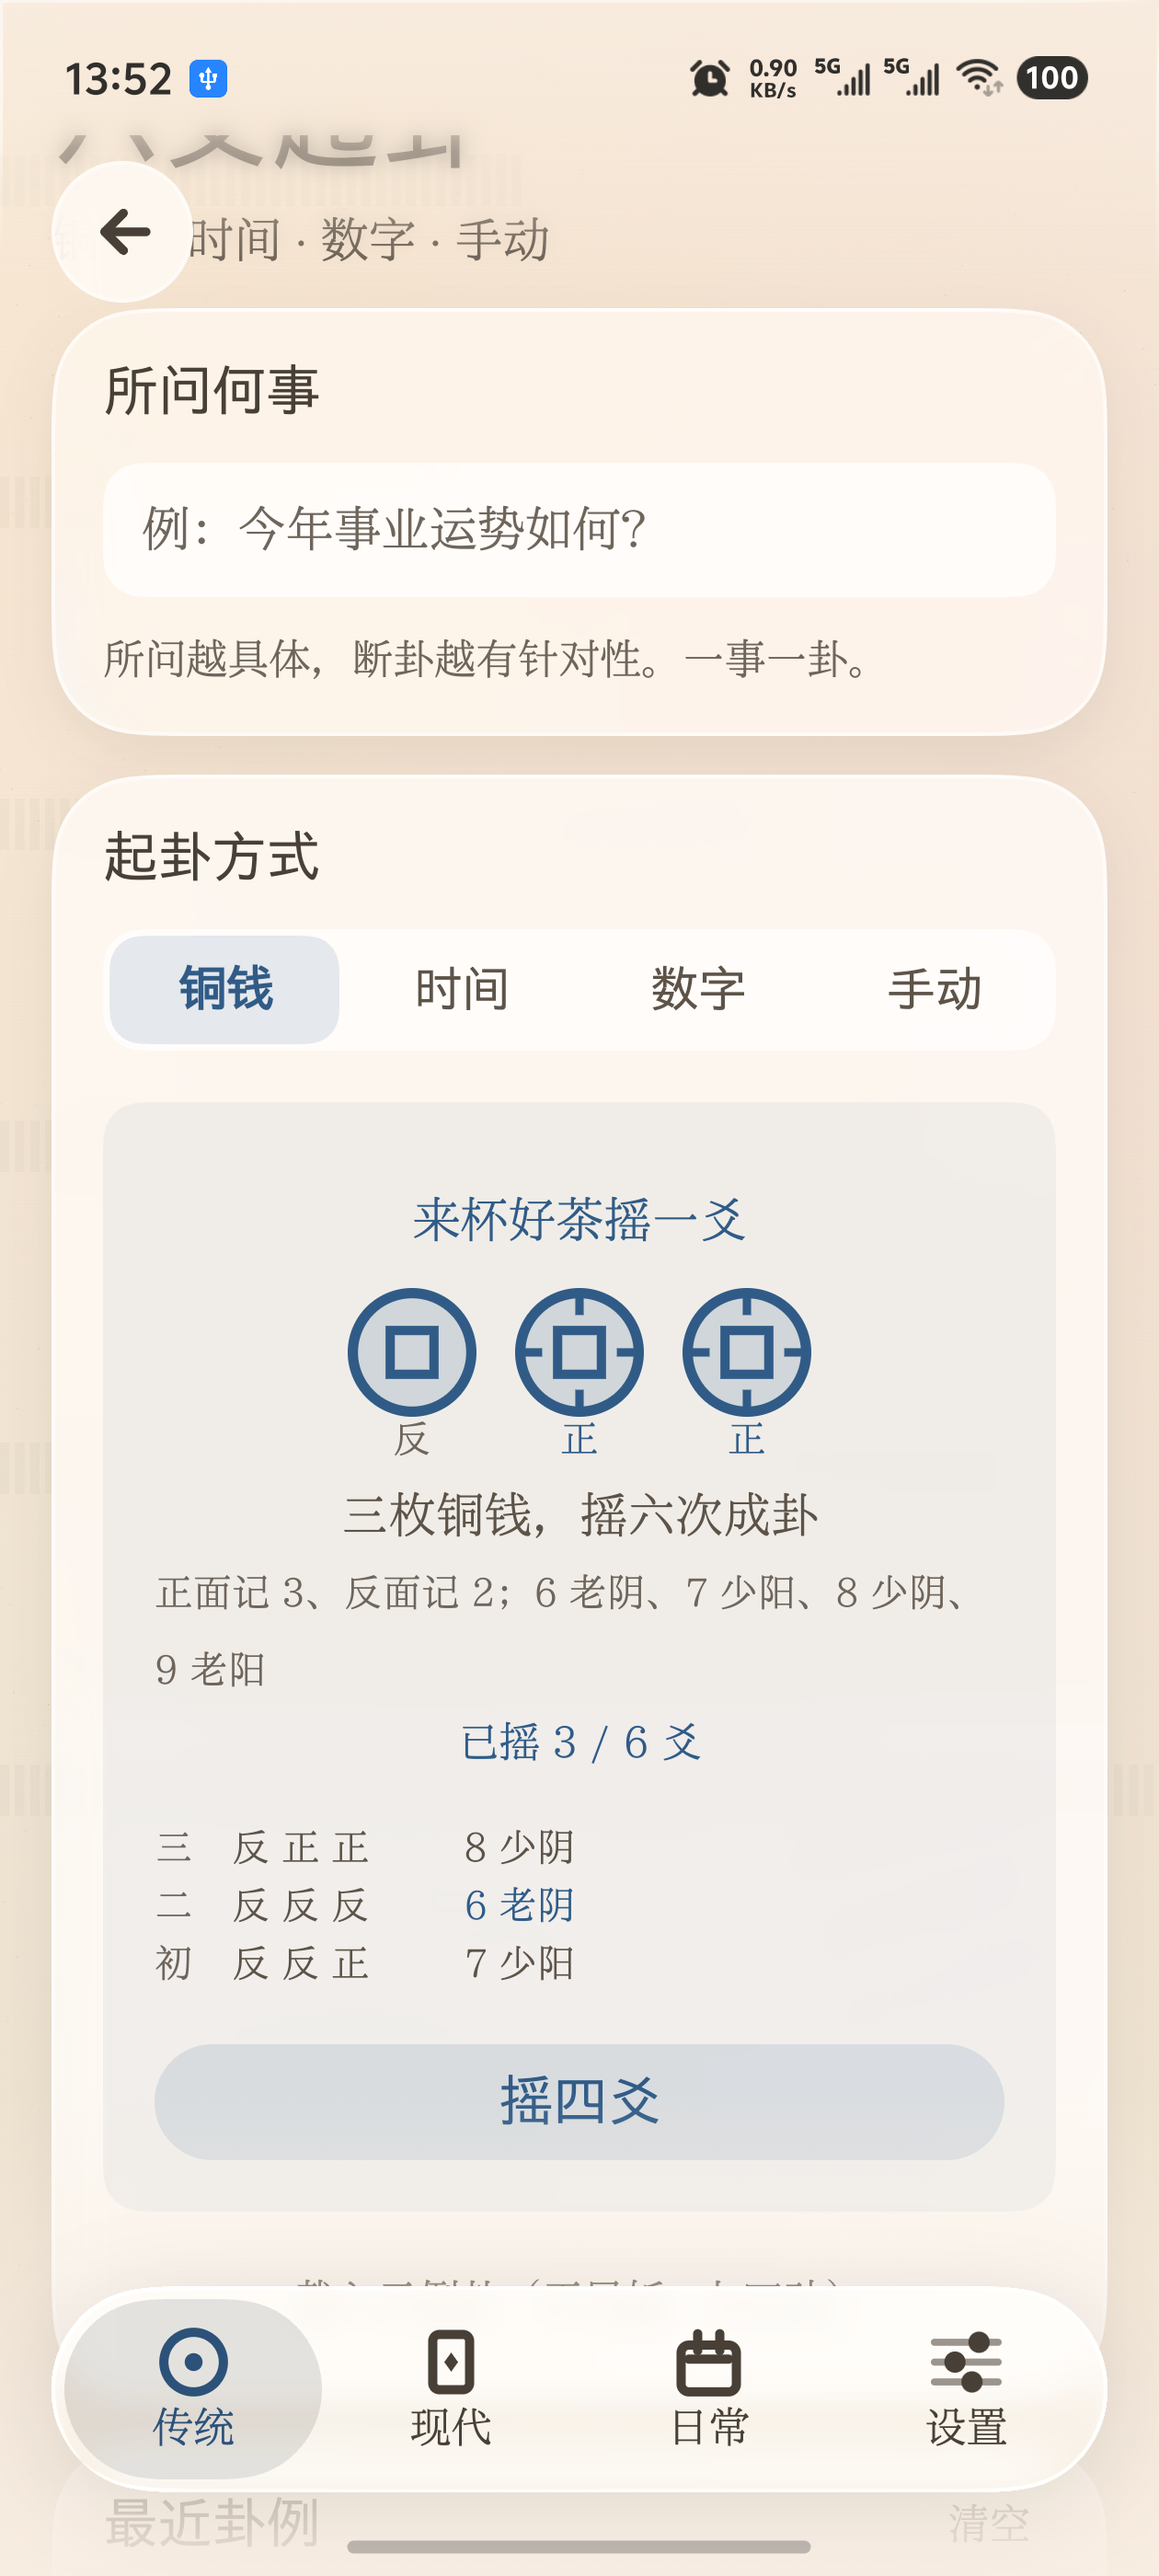
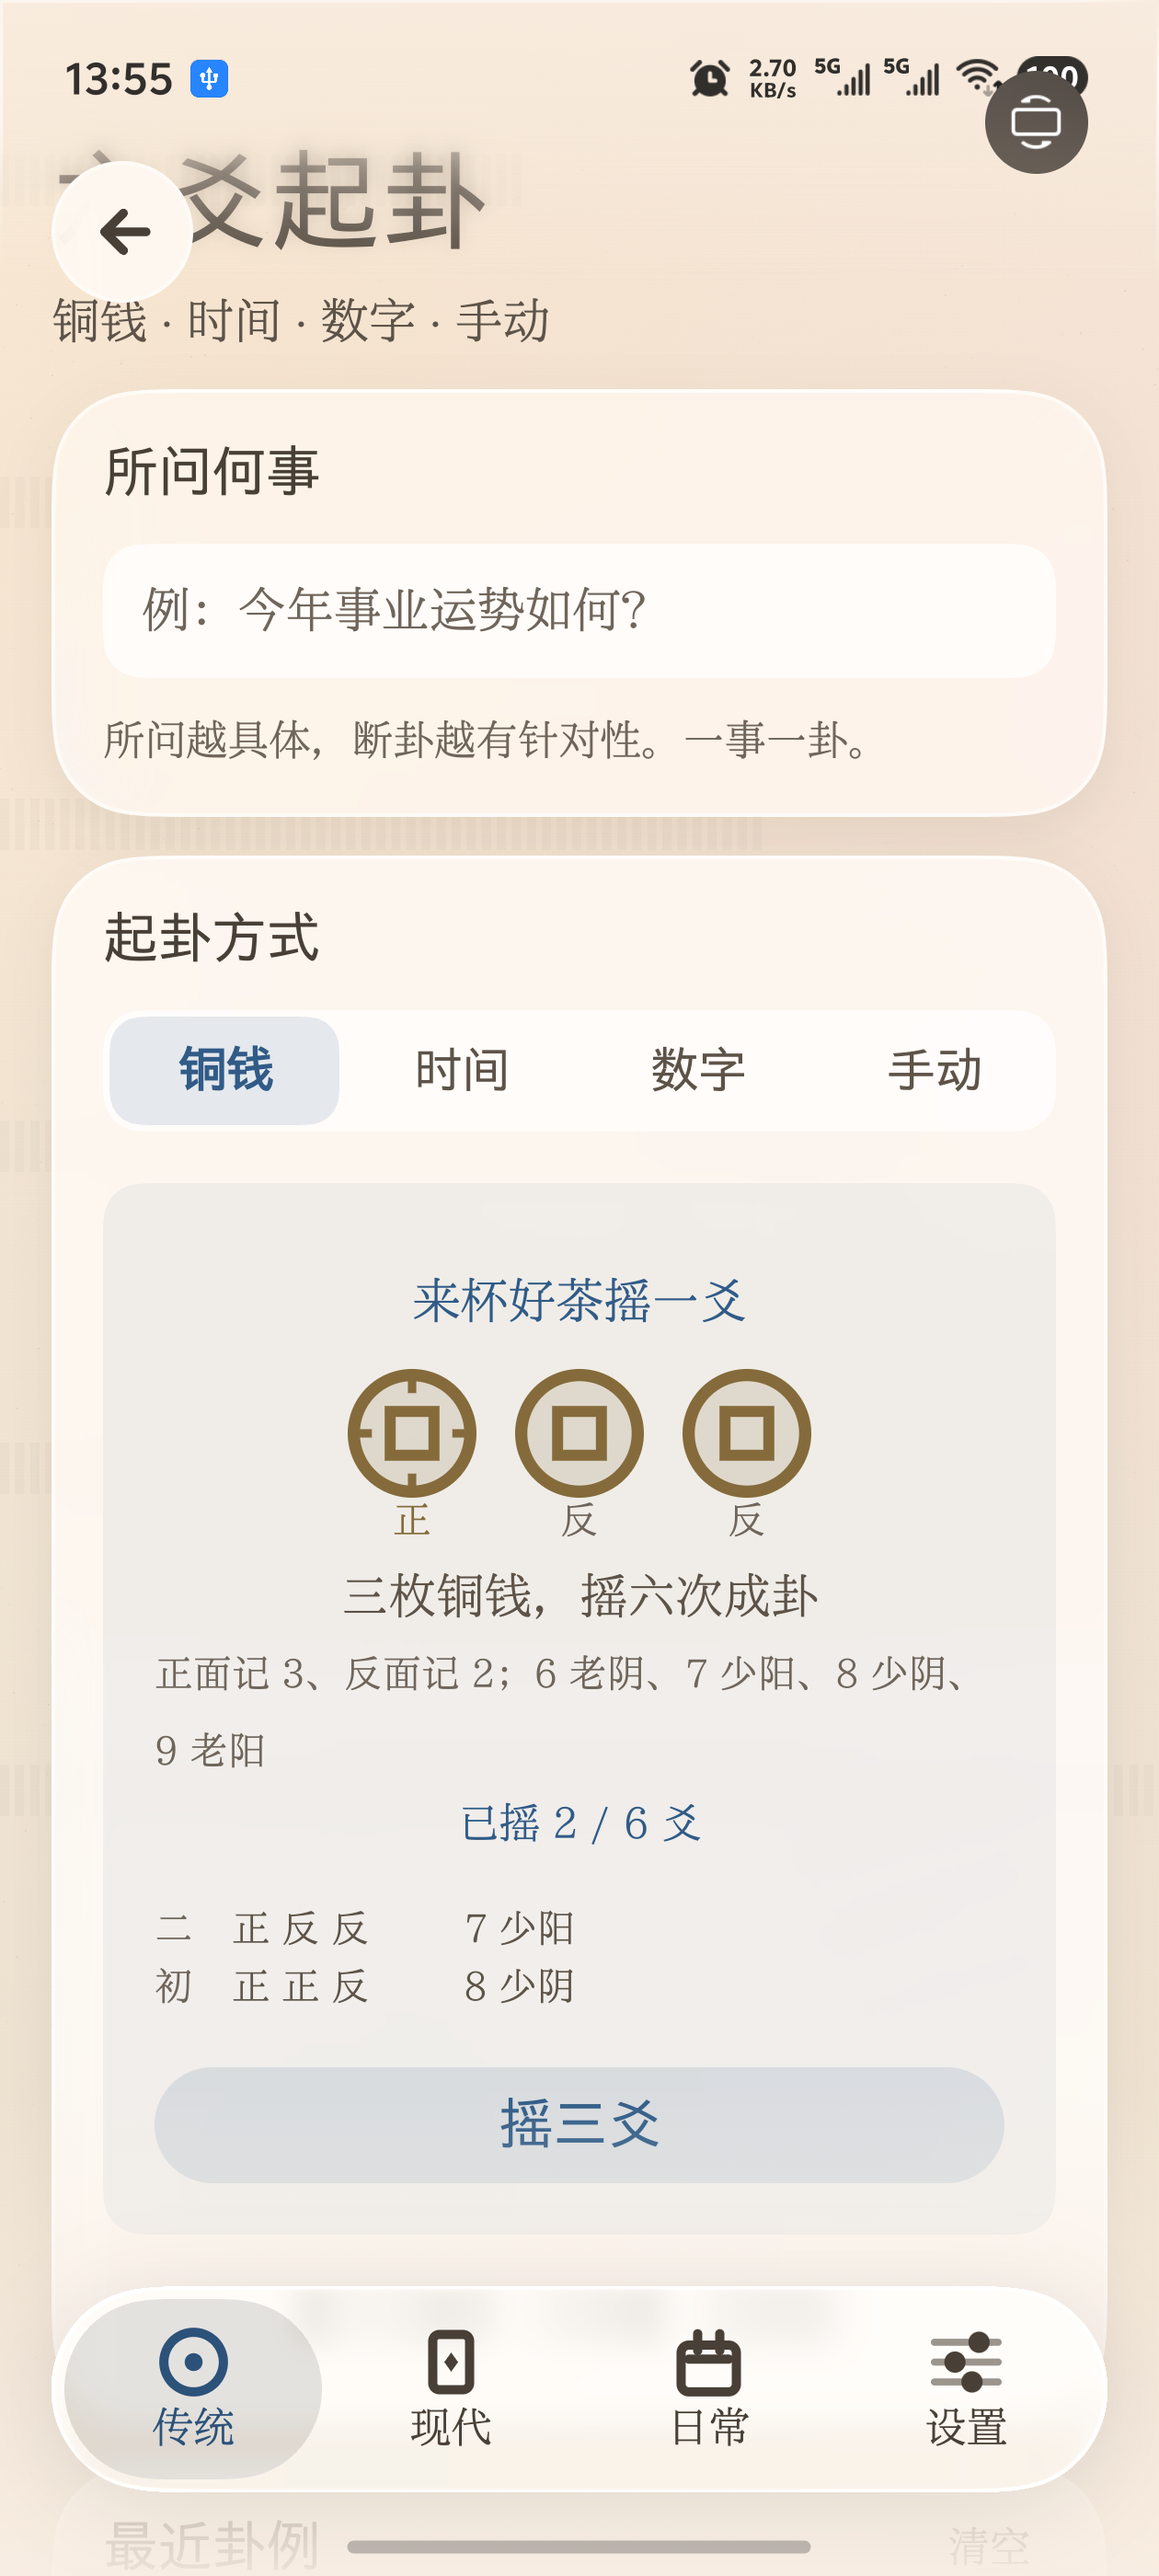
style(liuyao): 铜钱改暗金色
原来铜钱用 `colors.accent`（蓝），画出来不像铜钱。

改成暗金，分主题两档：
- 亮色主题 `#8A6A32`（偏褐的暗金）
- 深色主题 `#C9A961`（提亮，否则深底上几乎看不见）

描边从 r*0.16 加粗到 r*0.19 —— 暗金细线在浅底上不够立。
正/反标签也跟着走暗金，不再用强调色。

真机验证：三枚方孔暗金钱，正/反清晰可分，零崩溃。

diff --git a/feature/liuyao/src/main/java/com/maohongyuan/magic/feature/liuyao/LiuyaoScreen.kt b/feature/liuyao/src/main/java/com/maohongyuan/magic/feature/liuyao/LiuyaoScreen.kt
@@ -285,7 +285,14 @@ private fun CoinFace(angle: Float, isZi: Boolean, thrown: Boolean, tint: Color, 
     // 真实铜钱的区别方式就是「字面有纹、背面光素」，这里照这个来：
     // 字面在方孔四周画四道短纹（四字位），背面留白。
     Column(horizontalAlignment = Alignment.CenterHorizontally) {
-        val coinColor = if (thrown) tint else colors.tertiaryText
+        // 铜钱用**暗金**，不用强调色 —— 强调色是蓝的，画出来不像铜钱。
+        // 亮色主题下用偏褐的暗金（#8A6A32），深色主题下提亮到 #C9A961，
+        // 否则深底上的暗金几乎看不见。
+        val coinColor = when {
+            !thrown -> colors.tertiaryText
+            colors.isLight -> Color(0xFF8A6A32)
+            else -> Color(0xFFC9A961)
+        }
         Canvas(
             modifier = Modifier
                 .size(40.dp)
@@ -293,7 +300,7 @@ private fun CoinFace(angle: Float, isZi: Boolean, thrown: Boolean, tint: Color, 
         ) {
             val r = size.minDimension / 2f
             val c = Offset(size.width / 2f, size.height / 2f)
-            val ring = r * 0.16f
+            val ring = r * 0.19f
 
             // 外圆：淡金填充 + 金色描边
             drawCircle(color = coinColor.copy(alpha = 0.16f), radius = r - ring / 2f, center = c)
@@ -339,7 +346,7 @@ private fun CoinFace(angle: Float, isZi: Boolean, thrown: Boolean, tint: Color, 
             },
             fontSize = MagicType.caption.sp,
             fontWeight = FontWeight.Medium,
-            color = if (thrown && showingZi) tint else colors.tertiaryText,
+            color = if (thrown && showingZi) coinColor else colors.tertiaryText,
         )
     }
 }
